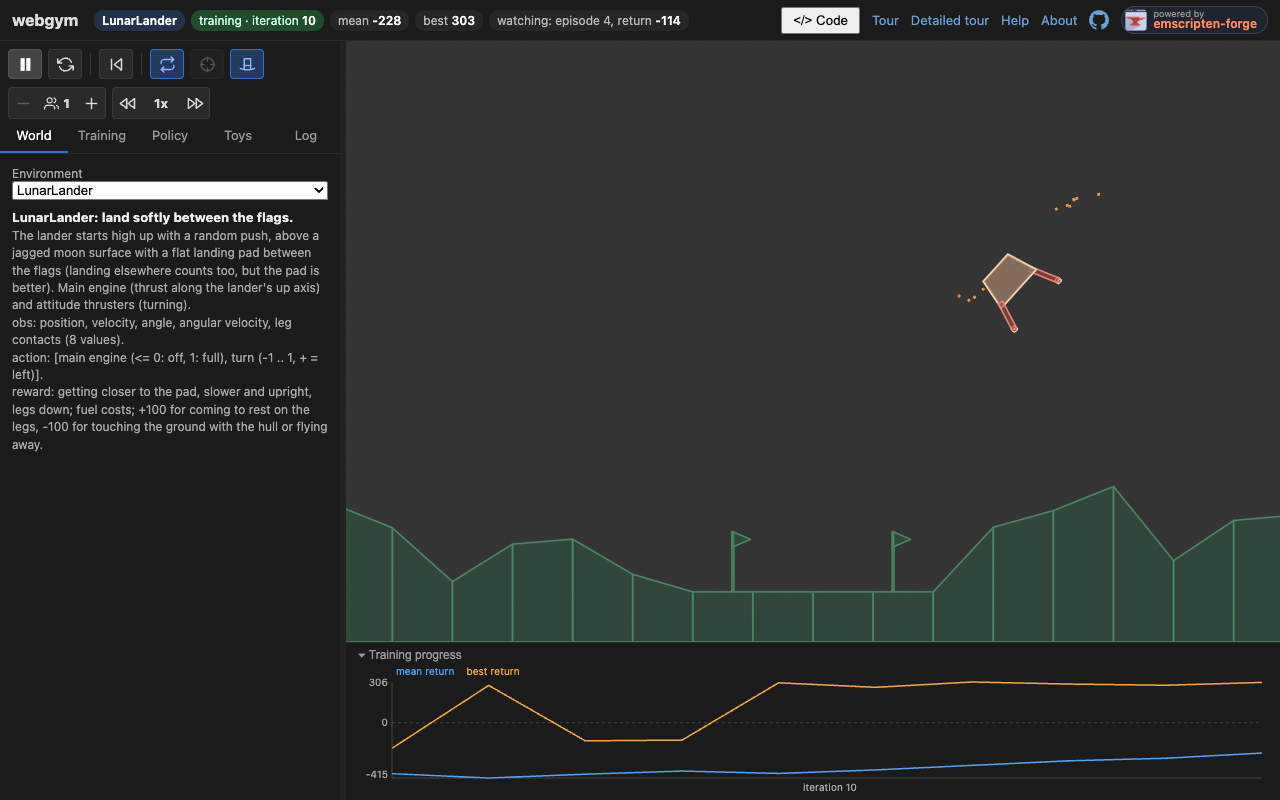
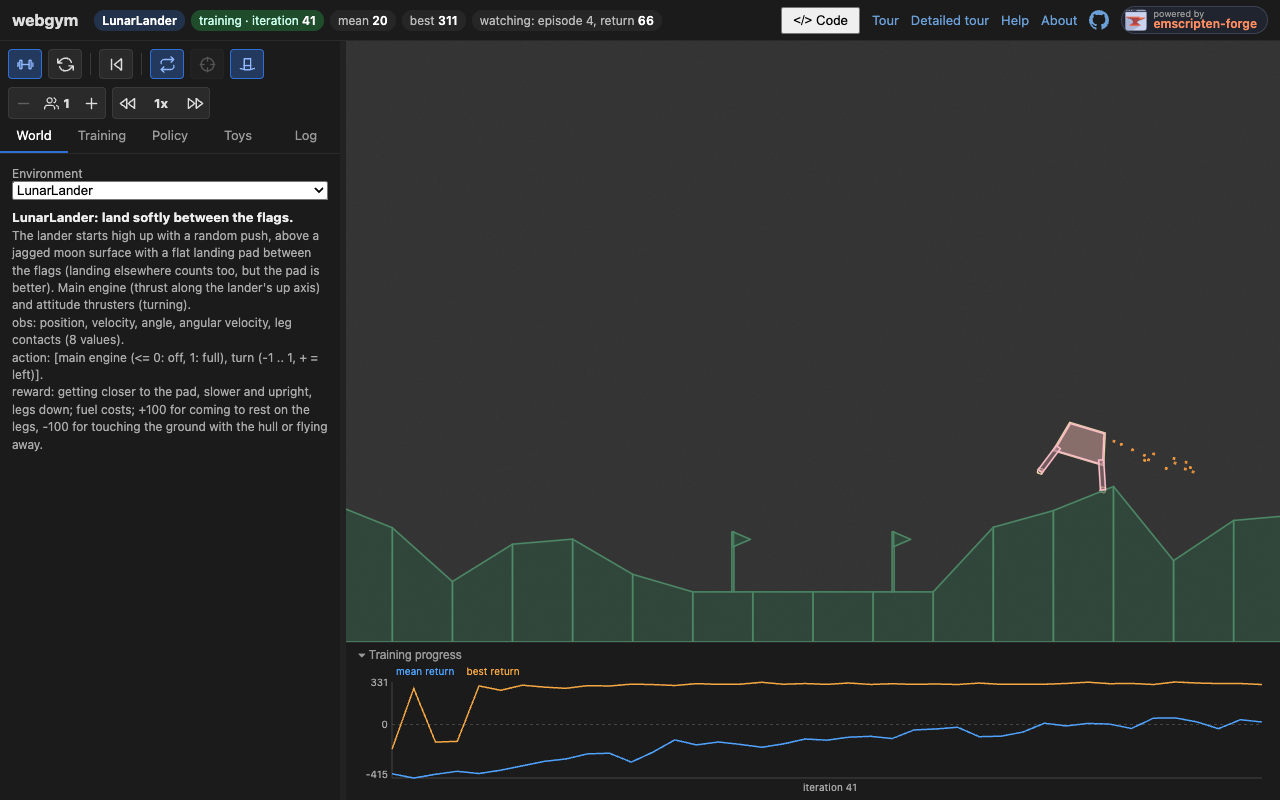
Welcome card and tour while python loads; a barbell for Train
The welcome card shows at once (a status line: loading / ready); the quick tour puts the
steps on what python builds (world select, the world) last, a step whose element isn't
built yet waits for it. Train is a barbell switch (blue while training): play / pause
read as pausing the replay. Help / README texts and screenshots updated.

diff --git a/web/tour.js b/web/tour.js
@@ -1,36 +1,49 @@
 // The tours: a few steps, each a frame around one element of the page (the rest dimmed)
 // and a caption with Next / Skip; a step with `tab` opens that tab first, a step whose
-// element isn't there (e.g. no simulation workers on a phone) is left out. The first
+// element isn't there (e.g. no simulation workers) is left out, or, while python still
+// loads (it builds the controls), waited for. The first
 // visit shows a welcome card (remembered in this browser) that offers them; the "Tour" /
 // "Detailed tour" links start them again.
 
 const DONE = "webgym.tour";
+
+// python builds part of the page (the controls): the welcome card and the tours start
+// while it loads; `ready` resolves once it is there (main.js: setReady)
+let ready = Promise.resolve();
+let isReady = true;
+export function setReady(promise) {
+  isReady = false;
+  ready = promise.then(() => (isReady = true));
+}
 
 /** the control (a widget of the app) whose label contains `text` */
 const control = (text) => () =>
   [...document.querySelectorAll(".control")].find((c) => c.querySelector("label")?.textContent.includes(text));
 
 const TOURS = {
+  // (python loads meanwhile: the steps on what it builds (the world select, the world)
+  // come last)
   quick: [
-    { target: "#controls-environment select", tab: "world",
-      text: "<b>Pick a world</b> in the World tab: what it is about is written below it; some have settings (e.g. how many objects)." },
     { target: "#quick",
-      text: "<b>The buttons</b> (hover one for its name): <b>▶</b> trains, ⏸ stops; the <b>circling arrows</b> start a new run from scratch; <b>skip back</b> starts a new episode (or R). Then three switches, blue when on: the <b>loop</b> is auto reset (a new episode when one ends), the <b>crosshair</b> lets the camera follow the agent, the <b>top hat</b> adds decoration (flames, flags). The agents learn right here in your browser, live; the numbers in the top bar show how they are doing." },
+      text: "<b>The buttons</b> (hover one for its name): the <b>barbell</b> trains (blue while it does, click again to stop; the world you watch keeps going either way); the <b>circling arrows</b> start a new run from scratch; <b>skip back</b> starts a new episode (or R). Then three switches, blue when on: the <b>loop</b> is auto reset (a new episode when one ends), the <b>crosshair</b> lets the camera follow the agent, the <b>top hat</b> adds decoration (flames, flags). The agents learn right here in your browser, live; the numbers in the top bar show how they are doing." },
     { target: "#quick-watch",
       text: "<b>How you watch:</b> − / + sets how many policies you see at once (the current one solid, the best candidates as ghosts); the arrows make the replay slower or faster (training always runs at full speed)." },
-    { target: "#stage", text: "<b>The world.</b> Drag to pan, the wheel (or two fingers) zooms, drag a body to push it. The progress plot is below." },
-    { target: "#tabs", text: "<b>More in the panel:</b> how it trains, the policy, toys, the log." },
+    { target: "#tabs", text: "<b>More in the panel:</b> the world, how it trains, the policy, toys, the log." },
     { target: "#tab-policy", tab: "policy",
       text: "<b>The policy:</b> once there is one (trained or restored), its neural network shows here, live: what the agent sees on the left, its actions on the right. Below it the checkpoints: save runs, restore them, or try a pretrained one." },
     { target: "#tab-toys", tab: "toys",
       text: "<b>Toys:</b> once it walks (or flies), tease it: a click into the world drops a box, a ball or a plank on it, sets off an explosion, or puts a ramp, a step or a seesaw in its way; or change the weather: rain, wind, moon gravity. Opening the tab turns auto reset off and shows one policy: see how it copes. R clears the world." },
     { target: "#code-toggle",
-      text: "<b>The python code</b> of the world and of the algorithm: edit it, press Apply, it runs. That was the quick tour: the <i>Detailed tour</i> (top bar) explains every control.",
+      text: "<b>The python code</b> of the world and of the algorithm: edit it, press Apply, it runs." },
+    { target: "#controls-environment select", tab: "world",
+      text: "<b>Pick a world</b> in the World tab: what it is about is written below it; some have settings (e.g. how many objects). A new world starts training at once." },
+    { target: "#stage",
+      text: "<b>The world.</b> Drag to pan, the wheel (or two fingers) zooms, drag a body to push it. The progress plot is below. That was the quick tour: the <i>Detailed tour</i> (top bar) explains every control.",
       next: "detailed" },
   ],
   detailed: [
     // above the tabs: training's buttons, auto reset
-    { target: "#quick-train", text: "<b>▶ Train / ⏸ Stop.</b> Starts learning; Stop keeps the run, <i>Continue training</i> goes on with it. Training runs in a worker of its own: the page stays responsive." },
+    { target: "#quick-train", text: "<b>Train</b> (the barbell; blue: training). A click starts learning, another stops it and keeps the run: the next click continues it. Training runs in a worker of its own: the page stays responsive, and the world you watch keeps going either way." },
     { target: "#quick-new", text: "<b>New run</b> (the circling arrows) throws the run away (network, history, autosave) and starts training from scratch." },
     { target: "#chips", text: "<b>The live numbers:</b> the world (with its settings), training and its iteration, the population's mean and best return, the episode you watch and its return so far." },
     { target: "#quick-episode", text: "<b>Reset episode</b> (or R): the watched world starts a new episode now." },
@@ -103,8 +116,8 @@ export function welcome() {
       pytorch, compiled to WebAssembly by <a href="https://emscripten-forge.org" target="_blank" rel="noopener">emscripten-forge</a>.
       No server, nothing to install.</p>
     <ul>
-      <li>Press <b>Train</b> and see a whole population learn; the plot below the world
-        shows the progress.</li>
+      <li>Press <b>Train</b> (the barbell) and see a whole population learn; the plot below
+        the world shows the progress.</li>
       <li>Look inside: the agent's <b>neural network</b>, live (Policy tab): what it sees,
         how its neurons fire and its weights, as it acts.</li>
       <li>No time to wait? <b>Pretrained agents come with the page</b>, for every world and
@@ -112,6 +125,7 @@ export function welcome() {
         away, then tease it in the <b>Toys</b> tab: ramps, explosions, rain.</li>
       <li>Every world and algorithm is plain python: open <b>Code</b>, change it, run it.</li>
     </ul>
+    <p class="loading">${isReady ? "" : "⏳ python is loading in the background…"}</p>
     <div class="buttons">
       <button class="skip">Skip</button>
       <button class="to-help">Help page</button>
@@ -119,6 +133,7 @@ export function welcome() {
       <button class="primary quick">Quick tour</button>
     </div>`;
   document.body.append(back, card);
+  ready.then(() => (card.querySelector(".loading").textContent = "✓ python is ready"));
   const close = () => {
     back.remove();
     card.remove();
@@ -172,6 +187,7 @@ export function startTour(kind = "quick") {
     const r = target().getBoundingClientRect();
     const pad = 4;
     Object.assign(frame.style, {
+      display: "",
       left: `${r.left - pad}px`, top: `${r.top - pad}px`, width: `${r.width + 2 * pad}px`, height: `${r.height + 2 * pad}px`,
     });
     const below = r.top + r.height + pad + 12;
@@ -192,6 +208,17 @@ export function startTour(kind = "quick") {
     if (s.tab) document.querySelector(`#tabs button[data-tab="${s.tab}"]`)?.click();
     app.classList.add("drawer-open");
     if (!drawerOpen && !target()?.closest("#side")) app.classList.remove("drawer-open");
+    if (!target() && !isReady) {  // (python builds it: wait for it, Next / Skip still work)
+      frame.style.display = "none";
+      card.innerHTML = `<div class="step">${step + 1} / ${steps.length}</div>` +
+        "<div>⏳ python is still loading: this step follows in a moment…</div>" +
+        '<div class="buttons"><button class="skip">Skip</button><button class="primary next">Next</button></div>';
+      card.querySelector(".skip").addEventListener("click", end);
+      Object.assign(card.style, { top: `${innerHeight / 3}px`, left: `${(innerWidth - card.offsetWidth) / 2}px` });
+      const waiting = step;
+      ready.then(() => card.isConnected && step === waiting && show(dir));
+      return;
+    }
     if (!target()) {  // (left out)
       if (dir < 0 && step > 0) return step--, show(-1);
       return step < steps.length - 1 ? (step++, show()) : end();

diff --git a/web/main.js b/web/main.js
@@ -13,7 +13,7 @@ import { createEditor, forgetFile, openFile, saveFile } from "./editor.js";
 import { removeEdit, saveEdit, storedEdits } from "./edits.js";
 import { drawNetwork } from "./network.js";
 import { plot } from "./plot.js";
-import { ask, startTour, tourDone, welcome } from "./tour.js";
+import { ask, setReady, startTour, tourDone, welcome } from "./tour.js";
 
 const stage = document.getElementById("stage");
 let canvas = document.getElementById("canvas"); // replaced on a worker restart
@@ -233,24 +233,19 @@ const openFolds = new Set(["Things to drop"]); // the folds that are open (kept 
 
 /** the app's widgets (App.controls(): select / slider / button), rebuilt on change;
  * changes go back as commands */
-// the app's controls of section "bar", as icons above the tabs: play / pause (train /
-// stop; the title says which: Train / Continue training / Stop), new run, reset episode,
-// the switches auto reset, camera follows, decoration (blue: on); below them the
-// steppers show policies and replay speed
+// the app's controls of section "bar", as icons above the tabs: train (a barbell, a
+// switch: blue while training; the title says what a click does: Train / Continue
+// training / Stop), new run, reset episode, the switches auto reset, camera follows,
+// decoration (blue: on); below them the steppers show policies and replay speed
 const quickTrain = document.getElementById("quick-train");
 const SWITCHES = { auto_reset: "quick-reset", follow: "quick-follow", decorate: "quick-decorate" };
-const PLAY = '<svg viewBox="0 0 24 24"><polygon points="6 3 20 12 6 21 6 3" /></svg>';
-const PAUSE = '<svg viewBox="0 0 24 24"><rect x="6" y="4" width="4" height="16" /><rect x="14" y="4" width="4" height="16" /></svg>';
-quickTrain.innerHTML = PLAY;
 document.getElementById("quick-new").onclick = () => command("new_run");
 document.getElementById("quick-episode").onclick = () => command("reset");
 function showQuick(controls) {
   const button = controls.find((c) => c.name === "train" || c.name === "stop");
   if (button) {
-    const running = button.name === "stop";
-    quickTrain.innerHTML = running ? PAUSE : PLAY;
     quickTrain.title = button.label;
-    quickTrain.classList.toggle("running", running);
+    quickTrain.classList.toggle("on", button.name === "stop"); // (training)
     quickTrain.onclick = () => command(button.name);
   }
   for (const [name, id] of Object.entries(SWITCHES)) {
@@ -505,11 +500,6 @@ function onMessage(role, { data }) {
   } else if (data.type === "ready") {
     if (role !== "trainer" && Date.now() > keepStatusUntil) status(""); // (a crash notice stays a while)
     if (role === "display" && lastSnapshot) toDisplay({ type: "snapshot", data: lastSnapshot });
-    // the first visit: the welcome card (a tour, help or skip), once the page is up (not
-    // in automated tests: they would click into it; ?tour=0 skips it too; ?welcome=1
-    // shows it always)
-    const firstVisit = !tourDone() && !navigator.webdriver && params.get("tour") !== "0";
-    if (role !== "trainer" && (firstVisit || params.get("welcome") === "1")) setTimeout(welcome, 1000);
     // the big packages in the training worker, in the background, a bit later: the
     // restore of the autosave goes first (the installs keep python busy)
     if (training) setTimeout(() => Object.keys(PACKAGES).forEach(loadPackage), 3000);
@@ -533,6 +523,7 @@ function onMessage(role, { data }) {
     else if (data.type === "fatal") restartAfterCrash(role, data.error);
   } else if (data.type === "controls") {
     showControls(data.controls);
+    controlsShown(); // (the tour may wait for them)
     const restored = checkpoints.onControls(data.controls, freshWorker);
     freshWorker = false;
     // the page starts training (after restoring the autosave: it continues the run);
@@ -895,9 +886,17 @@ async function forgetEverything() {
   for (const key of Object.keys(localStorage)) if (key.startsWith("webgym")) localStorage.removeItem(key);
 }
 
+// the tour waits for the controls python builds (the first "controls" message)
+let controlsShown;
+setReady(new Promise((resolve) => (controlsShown = resolve)));
 checkRelease().then(() => {
   startWorker("display");
   startWorker("trainer");
+  // the first visit: the welcome card (a tour, help or skip) at once: python loads while
+  // it is read (not in automated tests: they would click into it; ?tour=0 skips it too;
+  // ?welcome=1 shows it always)
+  const firstVisit = !tourDone() && !navigator.webdriver && params.get("tour") !== "0";
+  if (firstVisit || params.get("welcome") === "1") welcome();
 });
 if (MAX_HELPERS > 0) {
   const slider = document.getElementById("helpers");

diff --git a/web/help.html b/web/help.html
@@ -62,7 +62,8 @@
     </p>
     <p>
       <b>Left panel</b>: on top two rows of icons (hover them for what they do). The first:
-      <b>▶</b> trains (<b>⏸</b> stops, ▶ again continues); the circling arrows start a new
+      the <b>barbell</b> trains (blue while training; a click stops it, the next one
+      continues; the world you watch keeps going either way); the circling arrows start a new
       run from scratch; the skip-back icon starts a new episode (or R); then three switches
       (blue: on): the loop is auto reset, the crosshair camera follows, the top hat
       decoration. The second: <b>− / +</b> how many policies you watch at once, and the
@@ -87,10 +88,11 @@
     <h2 id="training">Training</h2>
     <img src="help/training.png" alt="training" />
     <p>
-      <b>Train</b> starts learning. While training, the world shows the whole
-      <b>population</b>: many agents in one world (they don't collide with each other), each
-      trying a different policy. The <span class="orange">orange</span> one is the leader (the
-      best one still alive), the <span class="blue">blue</span> ones are the others.
+      <b>Train</b> (the barbell) starts learning: a whole <b>population</b> of agents in one
+      world (they don't collide with each other), each trying a different policy, in a
+      worker of its own, as fast as it can. The world you see shows the current policy (and
+      as <span class="blue">blue</span> ghosts the best candidates, see "Show policies"),
+      updated as it learns.
     </p>
     <dl>
       <dt>Time budget</dt>
@@ -112,8 +114,9 @@
       <dd>More workers (each its own python and box2d, on another CPU core) run a share of the
         population's episodes: CEM and ES train several times faster. Each costs memory;
         more than your CPU cores don't help.</dd>
-      <dt>▶ / ⏸ / new run (above the tabs)</dt>
-      <dd>⏸ stops and keeps the run: ▶ continues it. <b>New run</b> (the circling arrows)
+      <dt>Train / new run (above the tabs)</dt>
+      <dd>The barbell (blue: training): a click stops and keeps the run, the next continues
+        it. <b>New run</b> (the circling arrows)
         starts from scratch.
         Picking another world starts training by itself.</dd>
     </dl>

diff --git a/web/index.html b/web/index.html
@@ -47,9 +47,6 @@
       #quick svg, .stepper svg { width: 17px; height: 17px; fill: none; stroke: currentColor; stroke-width: 2;
                    stroke-linecap: round; stroke-linejoin: round; }
       #quick .sep { width: 1px; height: 22px; background: #3a3a3a; margin: 0 2px; }
-      #quick-train { background: #2f6fd6 !important; border-color: #2f6fd6 !important; color: #fff !important; }
-      #quick-train svg { fill: currentColor; }
-      #quick-train.running { background: #444 !important; border-color: #555 !important; }
       #quick button.on { background: #23395d; border-color: #2f6fd6; color: #8fb8ff; }  /* (a switch that is on) */
       #quick button:disabled, .stepper button:disabled { opacity: 0.3; cursor: default; }
       .stepper { display: flex; width: auto; cursor: default; }
@@ -255,7 +252,9 @@
              controls of section "bar", see showQuick in main.js); line icons in the style of
              Feather, feathericons.com, MIT -->
         <div id="quick">
-          <button id="quick-train" title="Train"></button>
+          <button id="quick-train" title="Train">
+            <svg viewBox="0 0 24 24"><line x1="7" y1="12" x2="17" y2="12" /><rect x="4" y="6" width="3" height="12" rx="1" />
+              <rect x="17" y="6" width="3" height="12" rx="1" /><path d="M1.5 9v6M22.5 9v6" /></svg></button>
           <button id="quick-new" title="New run: start over from scratch">
             <svg viewBox="0 0 24 24"><polyline points="1 4 1 10 7 10" /><polyline points="23 20 23 14 17 14" />
               <path d="M20.49 9A9 9 0 0 0 5.64 5.64L1 10m22 4l-4.64 4.36A9 9 0 0 1 3.51 15" /></svg></button>

diff --git a/CLAUDE.md b/CLAUDE.md
@@ -118,7 +118,8 @@ Technical considerations:
   Tour, Help, About (= `help.html#about`, About, About the author, Acknowledgments (QuantStack, Bloomberg), Credits; TODOs for the author),
   GitHub), the left panel: on top two rows of line icons (SVG, Feather style), the app's
   controls of section "bar", drawn by `showQuick` in main.js (the only place they are):
-  `#quick` ▶/⏸ train / stop (its title = the app's button label), new run, | reset
+  `#quick` train (a barbell, a switch: blue while training; ▶/⏸ read as "pause the
+  replay"; its title = the app's button label), new run, | reset
   episode, | switches auto reset, camera follows (disabled for fixed views), decoration
   (a top hat), blue when on; `#quick-watch` steppers − / + for show policies and slower /
   faster for replay speed. No panel below the tabs any more. Then five tabs, in this order (World: the env select,
@@ -136,7 +137,10 @@ Technical considerations:
   sample); opening the tab (command "toy_mode") or a toy turns auto reset off and shows
   one policy; R clears them: the snapshot reset drops later bodies) / Policy: network +
   checkpoints / Log: state, packages, log; the tab is remembered), the world with the training progress plot in a strip below it (closable,
-  remembered). First visit: a welcome card (`web/tour.js` `welcome()`: what it is, then
+  remembered). First visit: a welcome card at once, while python loads (a status line
+  "loading" → "ready"; the quick tour puts the steps on what python builds, the world
+  select and the world, last; a step whose element python hasn't built yet waits:
+  `setReady`, resolved on the first "controls") (`web/tour.js` `welcome()`: what it is, then
   Quick tour / Detailed tour / Help page / Skip; on phones a note "made for the
   desktop, may still work"; not under automation,
   `navigator.webdriver`; `?tour=0` skips it, `?welcome=1` always shows it; the Tour links

diff --git a/README.md b/README.md
@@ -18,8 +18,9 @@ drag the env around with the mouse.
 
 ## What you can do
 
-- **Train live.** Press ▶ (or just pick a world: it starts by itself): a whole population learns at once in one world (the
-  leader solid, the others as ghosts), the progress plot below. Pick a time budget (quick /
+- **Train live.** Press the barbell (or just pick a world: it starts by itself): a whole population learns at once in one
+  world, in a worker of its own; you watch the current policy (and the best candidates as
+  ghosts) improve, the progress plot below. Pick a time budget (quick /
   medium / long) and each world suggests an algorithm and its settings.
 - **Look inside.** The agent's neural network, live: what it sees, how its neurons fire,
   its weights, as it acts.
